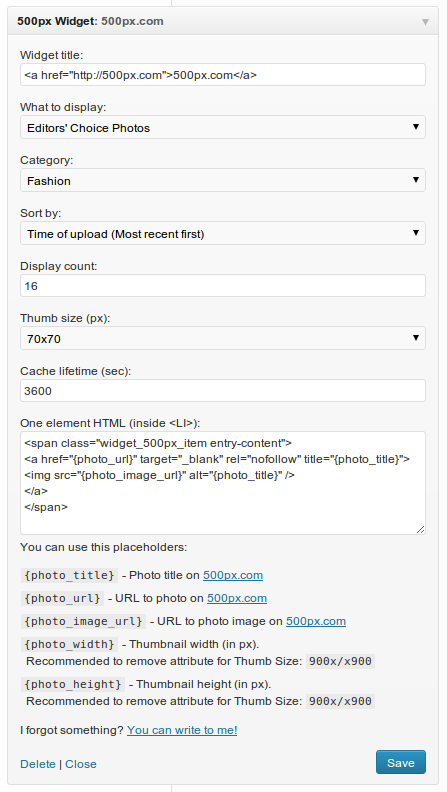
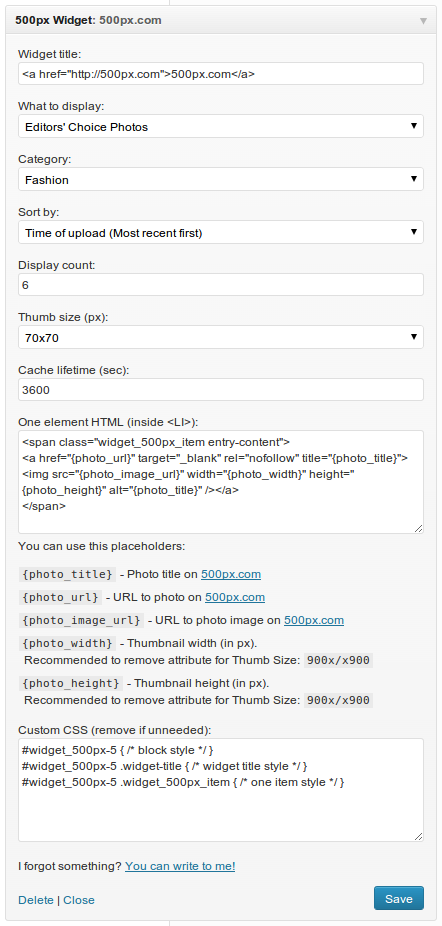
v0.8
git-svn-id: https://plugins.svn.wordpress.org/500px-widget/trunk@763593 b8457f37-d9ea-0310-8a92-e5e31aec5664

diff --git a/500px-widget.php b/500px-widget.php
@@ -3,7 +3,7 @@
  * Plugin Name: 500px Widget
  * Plugin URI: http://romantelychko.com/downloads/wordpress/plugins/500px-widget.latest.zip
  * Description: 500px Widget works only as a sidebar widget and will retrieve images (based on a criteria) hosted on the 500px.com service. No 500px API key is required to use this plugin.
- * Version: 0.7
+ * Version: 0.8
  * Author: Roman Telychko
  * Author URI: http://romantelychko.com
 */
@@ -95,11 +95,12 @@ class Widget_500px extends WP_Widget
 	 *
 	 * @param       array       $args               Widget arguments.
 	 * @param       array       $instance           Saved values from database.
+     * @return      html
 	 */
 	public function widget( $args, $instance ) 
 	{
 	    ///////////////////////////////////////////////////////////////////////
-	
+
 	    // args
 	    $args = array_merge( $this->defaults, $args );
 		
@@ -111,7 +112,9 @@ class Widget_500px extends WP_Widget
 
         if( empty($html) )
         {   
-            $html = $args['before_widget'];
+            $html =
+                ( isset($instance['custom_css']) && strlen($instance['custom_css'])>5 ? '<style type="text/css">'.$instance['custom_css'].'</style>' : '' ).
+                $args['before_widget'];
 
 		    if( !empty( $instance['title'] ) )
 		    {
@@ -414,7 +417,7 @@ class Widget_500px extends WP_Widget
 	
 	    // drop cache
 	    $this->clearCache();
-	    
+
 	    ///////////////////////////////////////////////////////////////////////
 	
 	    // return sanitized data
@@ -431,6 +434,15 @@ class Widget_500px extends WP_Widget
 		        'thumb_size'                    => intval( preg_replace( '#[^0-9]#', '', $new_instance['thumb_size'] ) ),
 		        'cache_lifetime'                => intval( preg_replace( '#[^0-9]#', '', $new_instance['cache_lifetime'] ) ),
 		        'one_element_html'              => trim( $new_instance['one_element_html'] ),
+                'custom_css'                    => trim(
+                                                       strip_tags(
+                                                           str_ireplace(
+                                                               '#'.$this->id_base.'-__i__',
+                                                               '#'.$this->id_base.'-'.$this->number,
+                                                               $new_instance['custom_css']
+                                                           )
+                                                       )
+                                                   ),
 		    );
 		    
 	    ///////////////////////////////////////////////////////////////////////
@@ -444,9 +456,10 @@ class Widget_500px extends WP_Widget
 	 * @see WP_Widget::form()
 	 *
 	 * @param       array       $instance           Previously saved values from database.
+     * @return      html
 	 */
 	public function form( $instance ) 
-	{   
+	{
 	    ///////////////////////////////////////////////////////////////////////
 	
 	    // defaults
@@ -461,6 +474,7 @@ class Widget_500px extends WP_Widget
 	    $thumb_size                 = $this->defaults['thumb_size'];
 	    $cache_lifetime             = $this->defaults['cache_lifetime'];
 	    $one_element_html           = $this->defaults['one_element_html'];
+        $custom_css                 = '';
 	    
 	    ///////////////////////////////////////////////////////////////////////
 
@@ -519,7 +533,21 @@ class Widget_500px extends WP_Widget
 		{
 			$one_element_html = $instance['one_element_html'];
 		}
-	
+
+        if( isset($instance['custom_css']) && strlen($instance['custom_css'])>5 )
+        {
+            $custom_css = $instance['custom_css'];
+        }
+        else
+        {
+            $temp_widget_id = $this->id_base.'-'.$this->number;
+
+            $custom_css =
+                '#'.$temp_widget_id.' { /* block style */ }'."\n".
+                '#'.$temp_widget_id.' .widget-title { /* widget title style */ }'."\n".
+                '#'.$temp_widget_id.' .widget_500px_item { /* one item style */ }';
+        }
+
 	    ///////////////////////////////////////////////////////////////////////
 	    
 	    $temp_select_categories = '';
@@ -646,6 +674,10 @@ class Widget_500px extends WP_Widget
 		                '<li><code>{photo_height}</code> - Thumbnail height (in px).<br />&nbsp;&nbsp;Recommended to remove attribute for Thumb Size: <code>900x/x900</code></li>'.
 	                '</ul>'.
 		        '</p>'.
+                '<p>'.
+                    '<label for="'.$this->get_field_id('custom_css').'">Custom CSS (remove if unneeded):</label>'.
+                    '<textarea class="widefat" cols="20" rows="6" id="'.$this->get_field_id('custom_css').'" name="'.$this->get_field_name('custom_css').'">'.$custom_css.'</textarea>'.
+                '</p>'.
 		        '<p>'.
 		            'I forgot something? <a href="http://wordpress.org/support/plugin/500px-widget" target="_BLANK">You can write to me!</a>'.
 		        '</p>'.
@@ -664,4 +696,3 @@ class Widget_500px extends WP_Widget
 add_action( 'widgets_init', create_function( '', 'register_widget( "Widget_500px" );' ) );
 
 ///////////////////////////////////////////////////////////////////////////////
-
